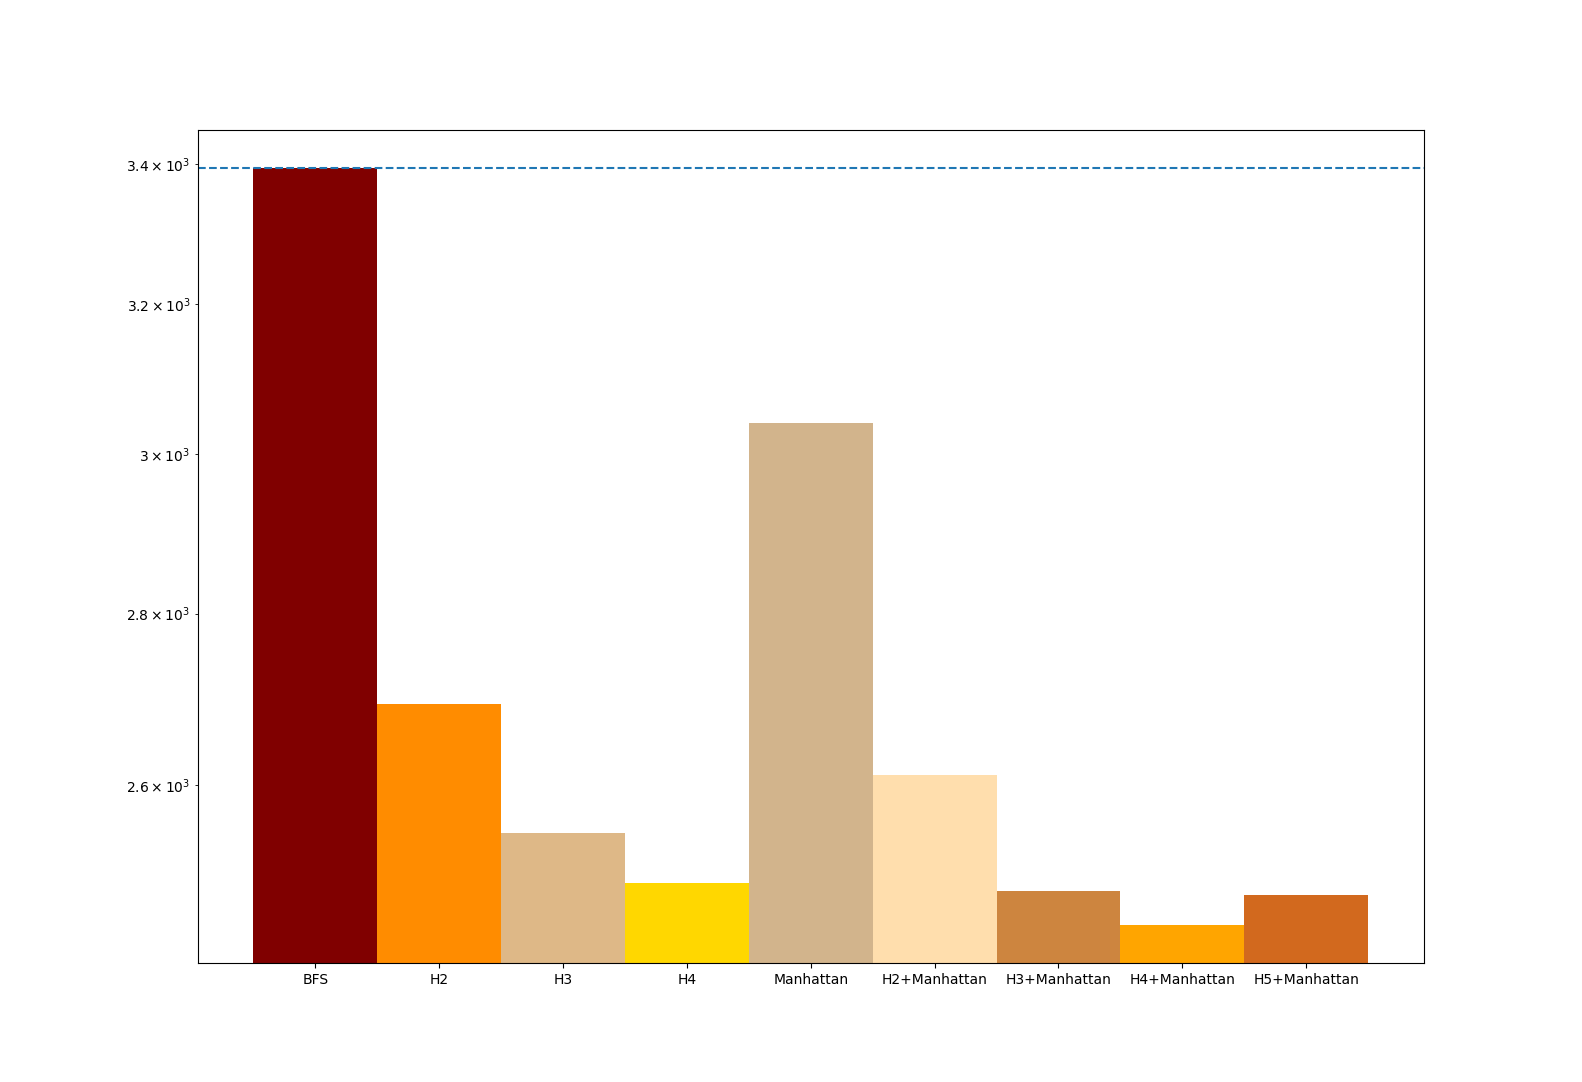
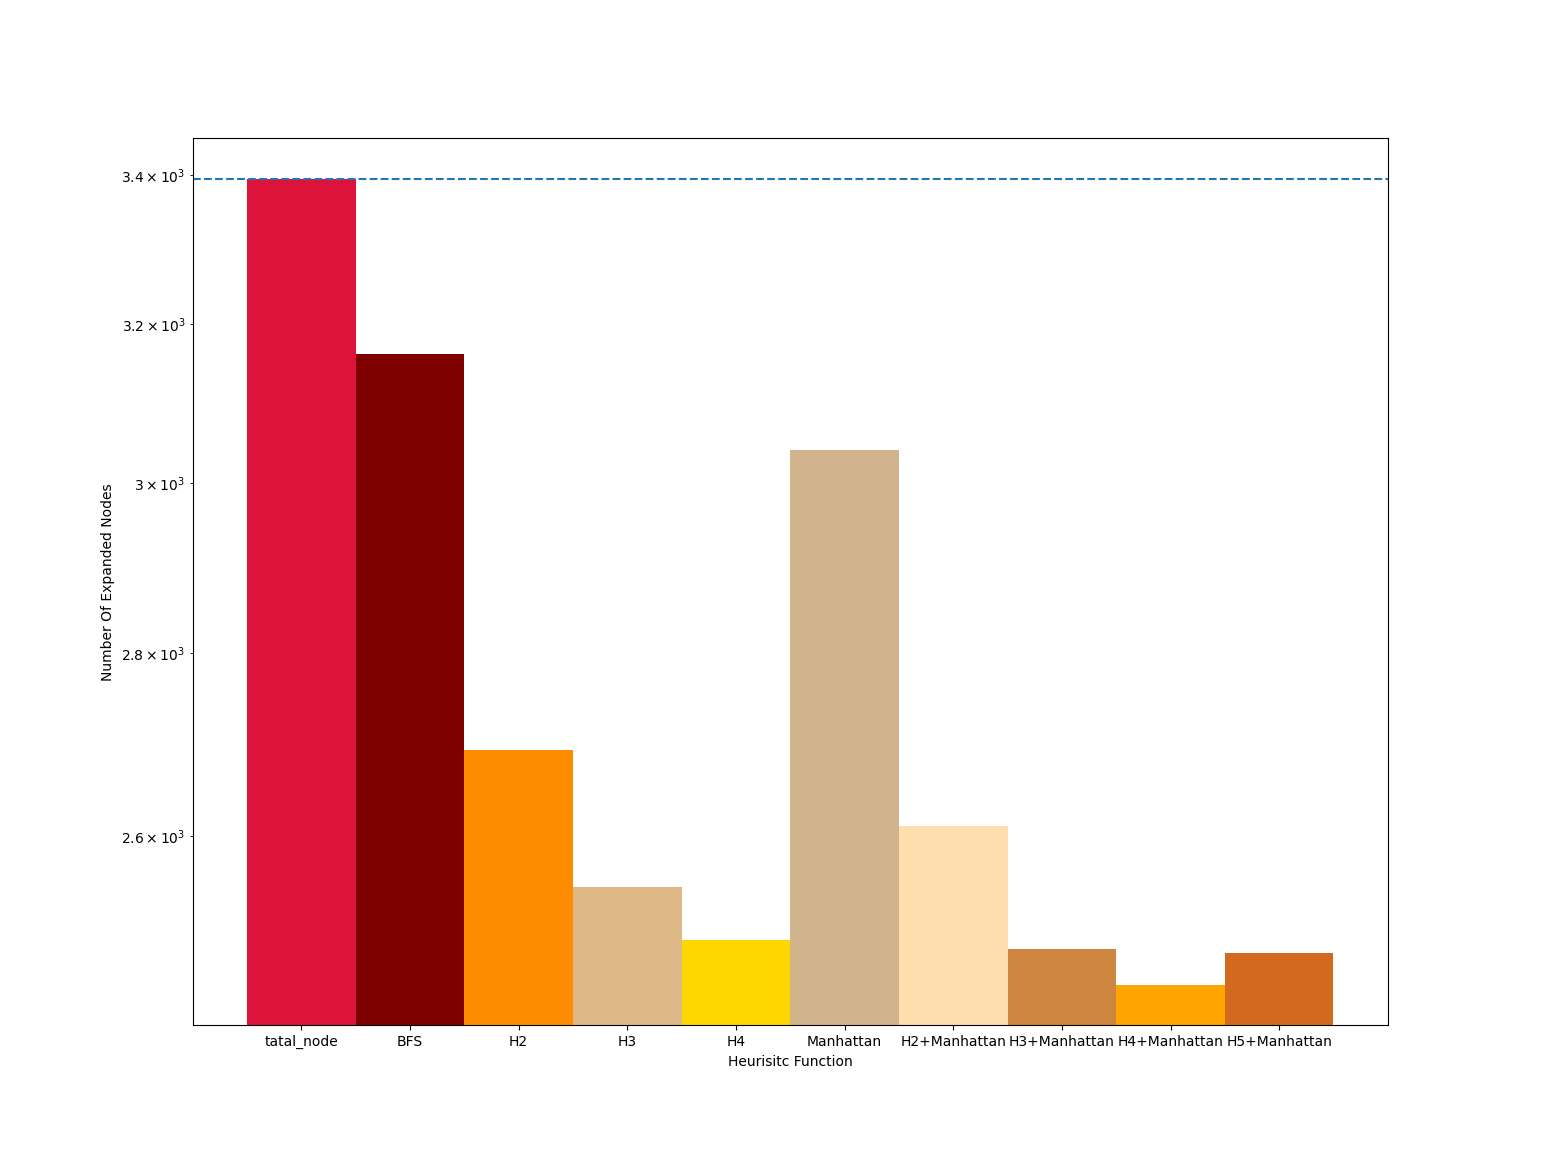
correct some bugs

diff --git a/analyze_result40/produce_barchart.py b/analyze_result40/produce_barchart.py
@@ -21,19 +21,17 @@ for j in filename:
     if j==0:
         print(temp)
     data.append(temp)
-
-for i in range(1,101):
-    index.append(i)
-
 totaly = []
+temp = []
+for i in range(0,100):
+    temp.append(data[0][i][1])
+totaly.append(temp)
+
 for j in range(0,9):
     y = []
     for i in range(0,100):
         pos = data[j][i]
-        if j==0:
-            y.append(pos[1])
-        else :
-            y.append(pos[0])
+        y.append(pos[0])
     totaly.append(y)
 # plt.plot(index,compare)
 avg = []
@@ -44,8 +42,10 @@ for i in totaly:
 # ax=plt.gca()
 # y_major_locator=MultipleLocator(100)
 # ax.yaxis.set_major_locator(y_major_locator)
+filename.insert(0,"tatal_node")
 plt.yscale('log')
-plt.bar(filename,avg,1,color=['maroon','darkorange','burlywood','gold','tan','navajowhite','peru','orange','chocolate'])
+plt.bar(filename,avg,1,color=['crimson','maroon','darkorange','burlywood','gold','tan','navajowhite','peru','orange','chocolate'])
 plt.axhline(avg[0],ls = "--")
-plt.savefig('BarChart.png', bbox_inches='tight')
+plt.xlabel("Heurisitc Function")
+plt.ylabel("Number Of Expanded Nodes")
 plt.show()
